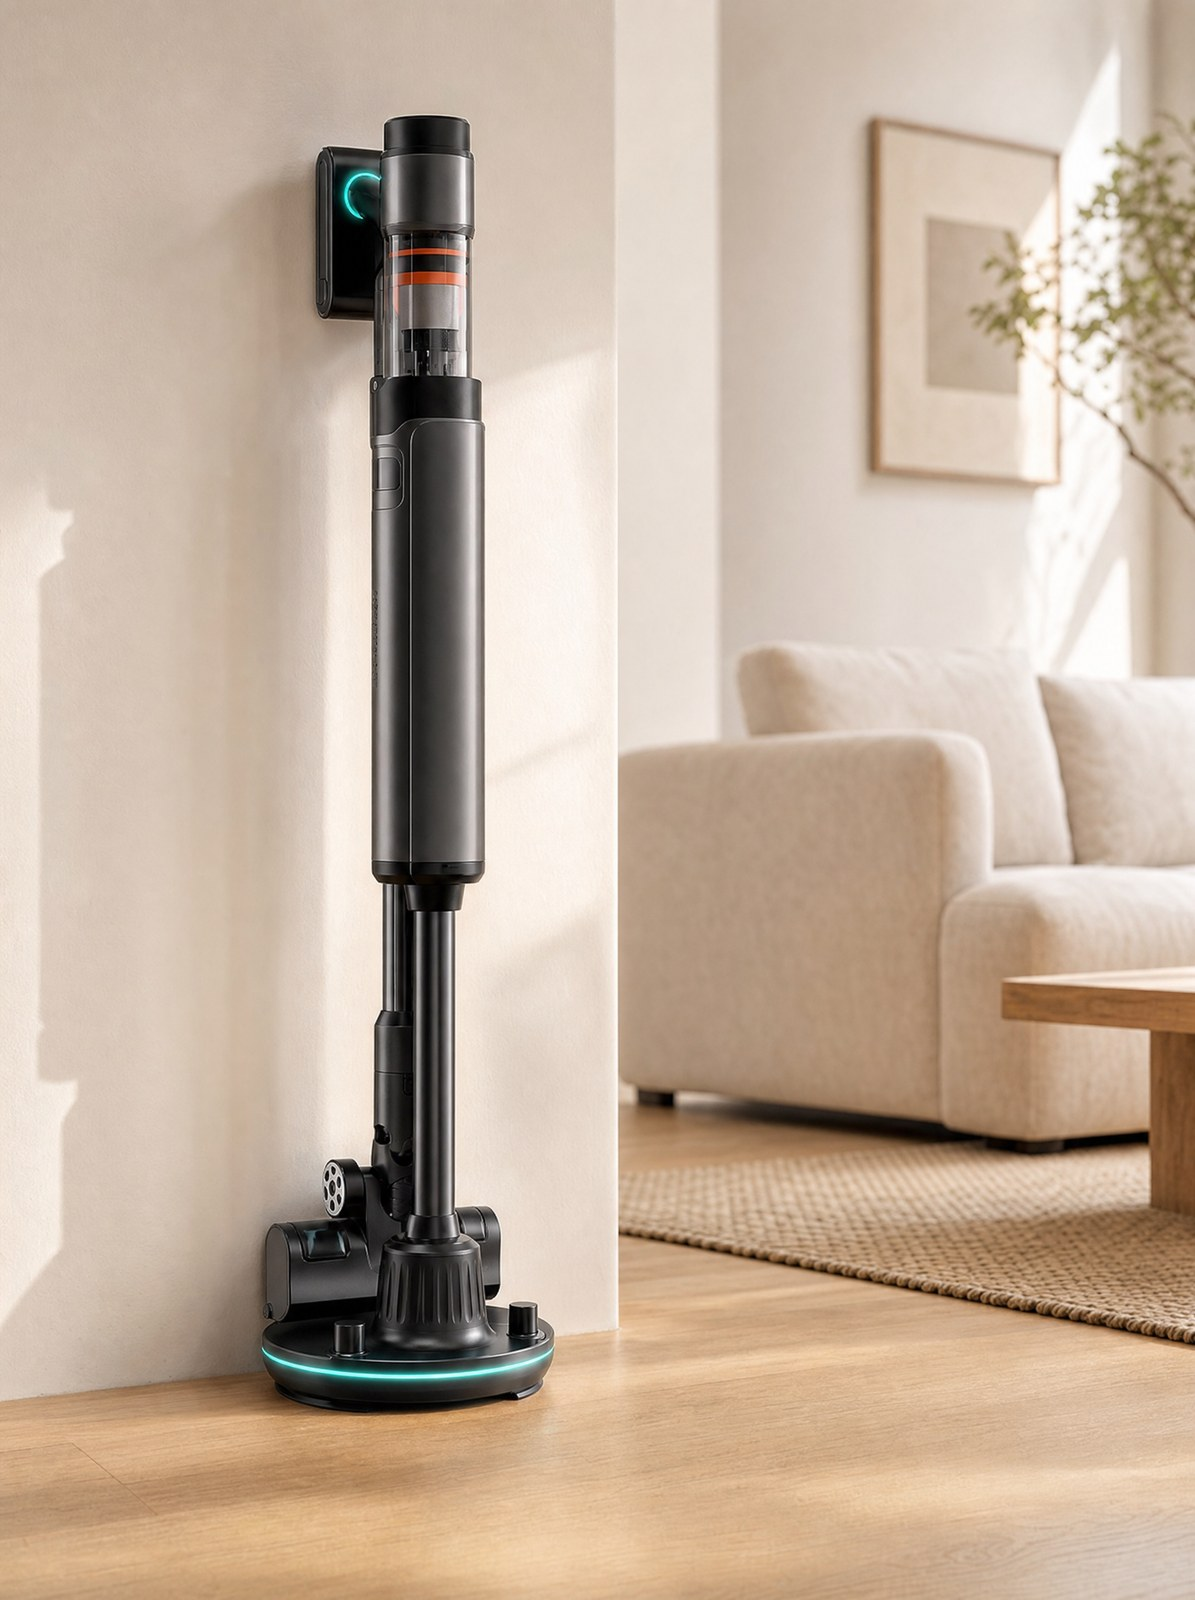
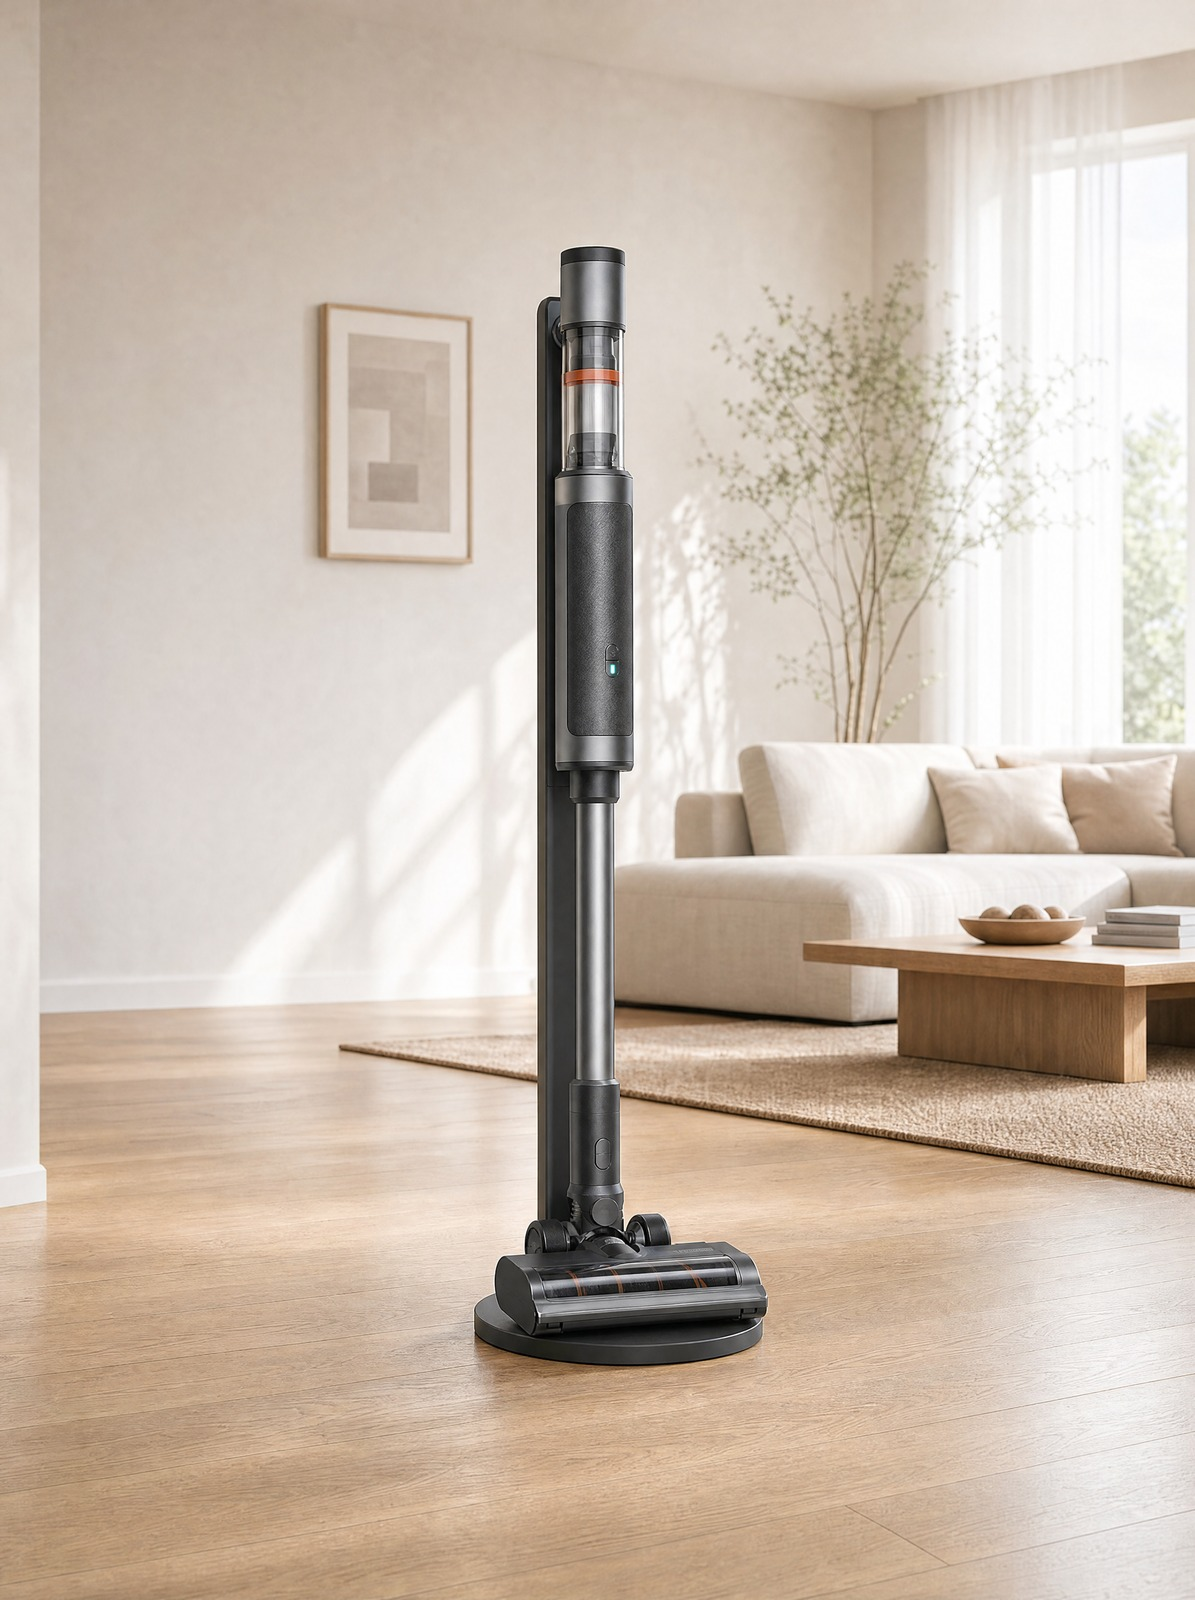
fix(slides): мобильный слайд 4 - пылесос перегенерён (была AI-мешанина)
Гена: на мобильном слайд 4 нереалистичен - к стене прилеплен кронштейн с
бирюзовым кольцом, ручка висит рядом, снизу свалка из дока+щётки+насадки,
пропорции как у термоса.
Перегенерил (gpt_image_2 3:4 4k, референсы: десктопный stickvac + фото щётки):
цельный пылесос в аккуратной круглой напольной подставке, ручка/пылесборник/
труба/щётка - одно целое, ничего к стене не приделано, лишних деталей нет,
реальные пропорции. Светлый интерьер как у других моб. слайдов. 1195x1600.
fileUpdate stickvac-m.jpg, ?v= бампнут в зеркалах.

diff --git a/preview-live.html b/preview-live.html
@@ -1,6 +1,6 @@
 <!doctype html><html lang="en"><head><meta charset="utf-8">
 <meta http-equiv="Cache-Control" content="no-cache"><meta name="viewport" content="width=device-width, initial-scale=1"><title>GlideHome preview</title>
-<link rel="stylesheet" href="shopify/glide-home.css?v=1788442088"><style>
+<link rel="stylesheet" href="shopify/glide-home.css?v=1788449291"><style>
   *{box-sizing:border-box} body{margin:0;font-family:-apple-system,BlinkMacSystemFont,"Segoe UI",Roboto,Arial,sans-serif;color:#0f2831}
   .gh-note{background:#0f2831;color:#8fe6f0;font-size:12px;padding:7px 16px;text-align:center}
   #hdr{position:sticky;top:0;z-index:50;background:rgba(255,255,255,.92);backdrop-filter:blur(10px);border-bottom:1px solid #e0e8ea}
@@ -83,8 +83,8 @@
         </div></div>
       </div>
       <div class="glide-slide" data-glide-slide>
-        <div class="glide-slide-bg" style="--img:url('/slides/stickvac.jpg?v=1788431508');--img-m:url('/slides/stickvac-m.jpg?v=1788431508')"></div>
-        <img class="glide-slide-img glide-slide-img--m" src="/slides/stickvac-m.jpg?v=1788431508" alt="" loading="lazy">
+        <div class="glide-slide-bg" style="--img:url('/slides/stickvac.jpg?v=1788431508');--img-m:url('/slides/stickvac-m.jpg?v=1788449275')"></div>
+        <img class="glide-slide-img glide-slide-img--m" src="/slides/stickvac-m.jpg?v=1788449275" alt="" loading="lazy">
         <div class="glide-wrap"><div class="glide-slide-inner">
           <span class="glide-eyebrow">GlideHome Stick V400</span><h2>Cordless power that empties itself</h2><p>190 AW suction, 50 minutes of runtime and a self-emptying dock — grab it and go, put it back clean.</p>
           <div class="glide-slide-cta"><a class="glide-btn glide-btn--primary glide-btn--lg" href="#">Shop Stick V400</a></div>
@@ -198,5 +198,5 @@
     </div>
   </div>
 </section>
-<script src="shopify/glide-home.js?v=1788442088" defer></script>
+<script src="shopify/glide-home.js?v=1788449291" defer></script>
 </body></html>

diff --git a/preview-shopify.html b/preview-shopify.html
@@ -1,6 +1,6 @@
 <!doctype html><html lang="en"><head><meta charset="utf-8">
 <meta http-equiv="Cache-Control" content="no-cache"><meta name="viewport" content="width=device-width, initial-scale=1"><title>GlideHome preview</title>
-<link rel="stylesheet" href="shopify/glide-home.css?v=1788442088"><style>
+<link rel="stylesheet" href="shopify/glide-home.css?v=1788449291"><style>
   *{box-sizing:border-box} body{margin:0;font-family:-apple-system,BlinkMacSystemFont,"Segoe UI",Roboto,Arial,sans-serif;color:#0f2831}
   .gh-note{background:#0f2831;color:#8fe6f0;font-size:12px;padding:7px 16px;text-align:center}
   #hdr{position:sticky;top:0;z-index:50;background:rgba(255,255,255,.92);backdrop-filter:blur(10px);border-bottom:1px solid #e0e8ea}
@@ -83,8 +83,8 @@
         </div></div>
       </div>
       <div class="glide-slide" data-glide-slide>
-        <div class="glide-slide-bg" style="--img:url('/slides/stickvac.jpg?v=1788431508');--img-m:url('/slides/stickvac-m.jpg?v=1788431508')"></div>
-        <img class="glide-slide-img glide-slide-img--m" src="/slides/stickvac-m.jpg?v=1788431508" alt="" loading="lazy">
+        <div class="glide-slide-bg" style="--img:url('/slides/stickvac.jpg?v=1788431508');--img-m:url('/slides/stickvac-m.jpg?v=1788449275')"></div>
+        <img class="glide-slide-img glide-slide-img--m" src="/slides/stickvac-m.jpg?v=1788449275" alt="" loading="lazy">
         <div class="glide-wrap"><div class="glide-slide-inner">
           <span class="glide-eyebrow">GlideHome Stick V400</span><h2>Cordless power that empties itself</h2><p>190 AW suction, 50 minutes of runtime and a self-emptying dock — grab it and go, put it back clean.</p>
           <div class="glide-slide-cta"><a class="glide-btn glide-btn--primary glide-btn--lg" href="#">Shop Stick V400</a></div>
@@ -198,5 +198,5 @@
     </div>
   </div>
 </section>
-<script src="shopify/glide-home.js?v=1788442088" defer></script>
+<script src="shopify/glide-home.js?v=1788449291" defer></script>
 </body></html>
